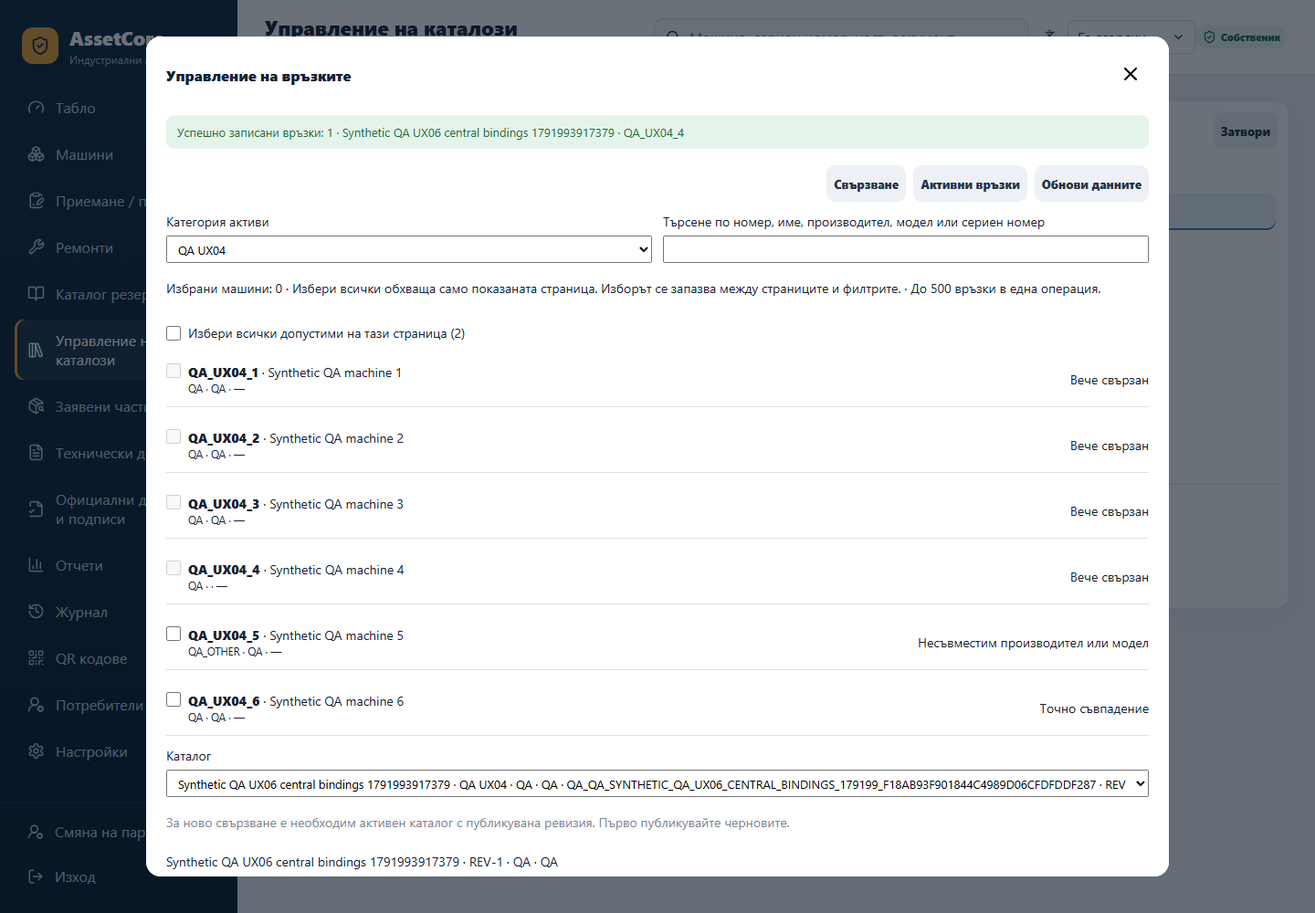
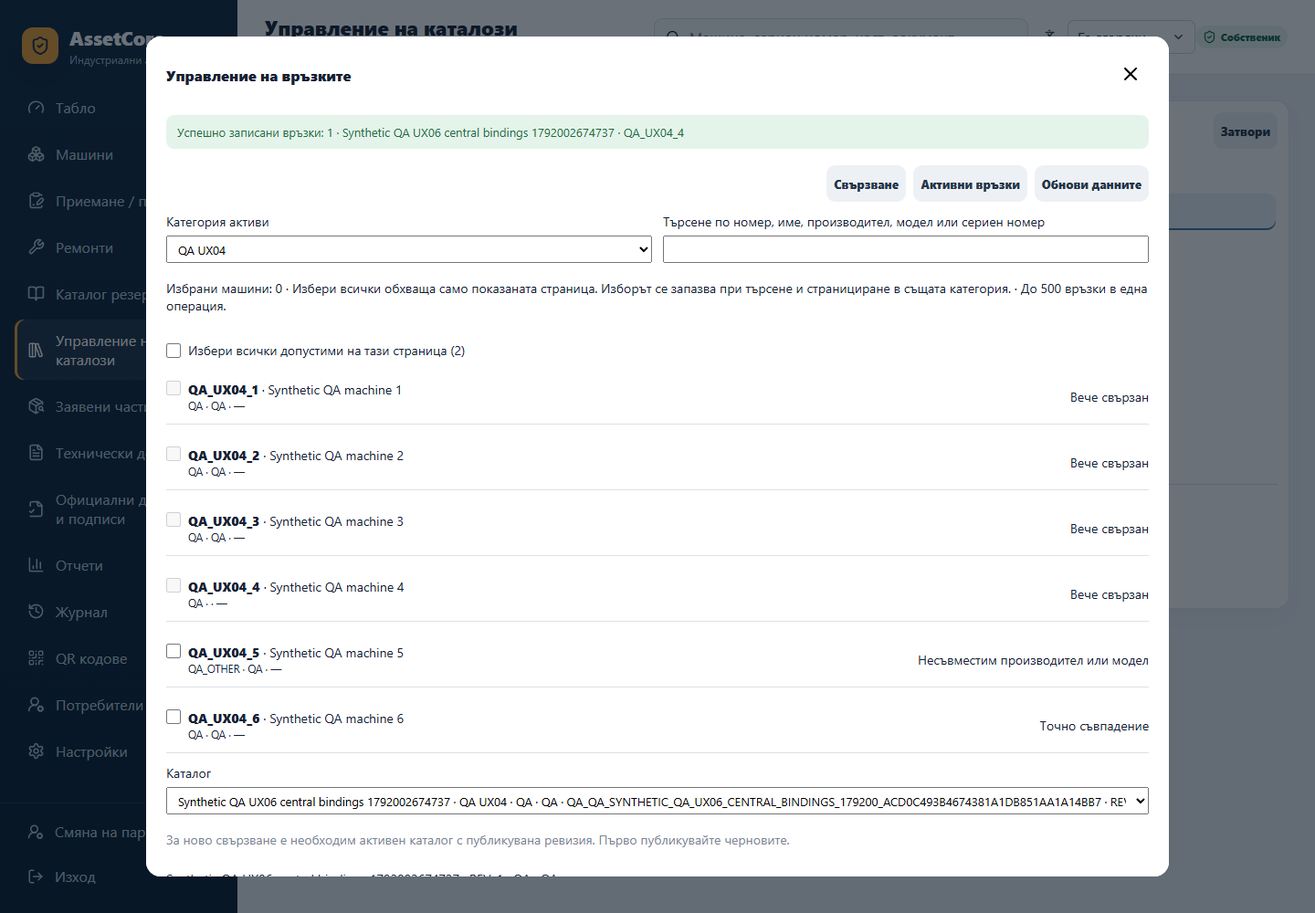
Guard catalog category changes against unfinished selections

diff --git a/frontend/src/features/catalogBuilder/CatalogBindings.test.tsx b/frontend/src/features/catalogBuilder/CatalogBindings.test.tsx
@@ -11,6 +11,9 @@ const category = { id: 1, code: 'QA', name_bg: 'QA category', name_en: 'QA categ
 const catalog = { id: 10, code: 'QA', name_bg: 'QA published', name_en: 'QA published', name_ru: 'QA published', asset_category_id: 1,
   asset_category: category, manufacturer: 'QA', model_reference: 'QA', is_active: true, published_revision: { id: 11, revision_code: 'REV-1' }, draft_revision_count: 1, active_asset_count: 0 }
 const draft = { ...catalog, id: 20, name_bg: 'QA draft', published_revision: null }
+const otherCategory = { ...category, id: 2, code: 'QA_OTHER', name_bg: 'QA other category' }
+const otherCatalog = { ...catalog, id: 40, code: 'QA_OTHER', name_bg: 'QA other published', asset_category_id: 2,
+  asset_category: otherCategory, published_revision: { id: 41, revision_code: 'REV-OTHER' } }
 const machine = (id: number, extra = {}) => ({ id, inventory_number: `QA-${id}`, name: `Synthetic QA ${id}`, brand: 'QA', model: 'QA', serial_number: `QA-S-${id}`, is_active: true, bound: false, compatibility: 'EXACT', ...extra })
 const binding = (id: number, machineId = 1) => ({ id, catalog_id: id === 1 ? 10 : 30, machine_id: machineId, category_id: 1, machine: machine(machineId), catalog: id === 1 ? catalog : { ...catalog, id: 30, code: 'QA_SECOND', name_bg: 'QA second' },
   status: 'ACTIVE', published_revision: catalog.published_revision, expected_digest: String(id).repeat(64).slice(0, 64) })
@@ -20,25 +23,34 @@ afterEach(() => { vi.unstubAllGlobals(); vi.restoreAllMocks() })
 function setup({ ambiguous = false, incompatible = false, failure = false } = {}) {
   setSessionUser({ id: 1, role: 'administrator', permissions: ['parts.manage'] } as UserSession)
   const writes: Array<{ path: string; body: Record<string, unknown> }> = []
+  const previews: Array<{ catalog_id: number; machine_ids: number[]; confirmed_machine_ids: number[] }> = []
+  const machineQueries: URLSearchParams[] = []
   const onChanged = vi.fn(async () => {}), onClose = vi.fn()
   vi.stubGlobal('fetch', vi.fn(async (input: RequestInfo | URL, init?: RequestInit) => {
     const path = String(input), body = init?.body ? JSON.parse(String(init.body)) : {}
     if (init?.method === 'POST') {
       if (path.endsWith('/preview')) {
+        previews.push(body)
         const machines = body.machine_ids.map((id: number) => machine(id, { compatibility: incompatible && id === 2 ? 'INCOMPATIBLE' : ambiguous ? 'AMBIGUOUS' : 'EXACT',
           code: incompatible && id === 2 ? 'catalog_asset_model_mismatch' : ambiguous && !body.confirmed_machine_ids.includes(id) ? 'catalog_asset_compatibility_confirmation_required' : null }))
-        return json({ machines, ready: machines.every((row: { code: string | null }) => !row.code), digest: 'a'.repeat(64), published_revision: catalog.published_revision })
+        return json({ machines, ready: machines.every((row: { code: string | null }) => !row.code), digest: 'a'.repeat(64), published_revision: body.catalog_id === 40 ? otherCatalog.published_revision : catalog.published_revision })
       }
       writes.push({ path, body })
       return failure ? json({ detail: { code: 'catalog_bindings_stale' } }, 409) : json({ count: body.bindings?.length || body.machine_ids?.length || 2, machines: [machine(1), machine(2)] })
     }
-    if (path.includes('/bindings/machines?')) return json({ items: path.includes('offset=50') ? [machine(51)] : [machine(1), machine(2), machine(3, { bound: true })], total: 51, offset: path.includes('offset=50') ? 50 : 0, limit: 50 })
+    if (path.includes('/bindings/machines?')) {
+      const query = new URL(path, 'http://localhost').searchParams
+      machineQueries.push(query)
+      if (query.get('category_id') === '2') return json({ items: [machine(101)], total: 1, offset: 0, limit: 50 })
+      if (query.get('search')) return json({ items: [machine(2)], total: 1, offset: 0, limit: 50 })
+      return json({ items: query.get('offset') === '50' ? [machine(51)] : [machine(1), machine(2), machine(3, { bound: true })], total: 51, offset: query.get('offset') === '50' ? 50 : 0, limit: 50 })
+    }
     if (path.includes('/bindings?')) return json({ items: [binding(1), binding(2)], total: 2, offset: 0, limit: 50 })
     if (path.includes('/workspace/machines?')) return json({ items: [], total: 0, has_next: false })
     return json([])
   }))
-  render(<I18nProvider><CatalogBindings catalogs={[catalog, draft]} categories={[category]} catalogId={10} onChanged={onChanged} onClose={onClose} /></I18nProvider>)
-  return { writes, onChanged, onClose, user: userEvent.setup() }
+  render(<I18nProvider><CatalogBindings catalogs={[catalog, draft, otherCatalog]} categories={[category, otherCategory]} catalogId={10} onChanged={onChanged} onClose={onClose} /></I18nProvider>)
+  return { writes, previews, machineQueries, onChanged, onClose, user: userEvent.setup() }
 }
 
 it('keeps BG/EN/RU keys and disables unpublished catalogs even beside a published catalog with a new draft', async () => {
@@ -66,6 +78,140 @@ it('preserves exact selections across pages, and select all is explicitly limite
   expect(onClose).not.toHaveBeenCalled()
   await user.click(screen.getByRole('button', { name: 'Отказ' }))
   expect(screen.getByText(/Избрани машини: 2/)).toBeInTheDocument()
+})
+
+it('keeps the category, selection, individual confirmations and preview when a category change is cancelled', async () => {
+  const { user, previews, machineQueries, writes } = setup({ ambiguous: true })
+  await user.click(await screen.findByLabelText('Избери всички допустими на тази страница (2)'))
+  await user.click(await screen.findByRole('button', { name: ux06Bg['ux06.preview'] }))
+  for (const id of [1, 2]) await user.click(await screen.findByLabelText(`Потвърждавам съвместимостта за QA-${id}`))
+  await waitFor(() => expect(screen.getByRole('button', { name: ux06Bg['ux06.confirmBind'] })).toBeEnabled())
+  await user.click(screen.getByRole('button', { name: 'Отказ' }))
+  const previewCount = previews.length
+  await user.selectOptions(screen.getByRole('combobox', { name: 'Категория активи' }), '2')
+  expect(screen.getByRole('heading', { name: ux06Bg['ux06.changeCategory'] })).toHaveFocus()
+  expect(screen.getByText(ux06Bg['ux06.categorySelectionWarning'])).toBeInTheDocument()
+  await user.click(screen.getByRole('button', { name: 'Отказ' }))
+  expect(screen.getByRole('combobox', { name: 'Категория активи' })).toHaveValue('1')
+  expect(screen.getByRole('combobox', { name: 'Категория активи' })).toHaveFocus()
+  expect(screen.getByRole('combobox', { name: 'Каталог' })).toHaveValue('10')
+  expect(screen.getByText(/Избрани машини: 2/)).toBeInTheDocument()
+  for (const id of [1, 2]) expect(screen.getByRole('button', { name: `Премахни QA-${id} от избора` })).toBeInTheDocument()
+  await user.click(screen.getByRole('button', { name: ux06Bg['ux06.preview'] }))
+  for (const id of [1, 2]) expect(screen.getByLabelText(`Потвърждавам съвместимостта за QA-${id}`)).toBeChecked()
+  expect(screen.getByRole('button', { name: ux06Bg['ux06.confirmBind'] })).toBeEnabled()
+  expect(previews).toHaveLength(previewCount)
+  expect(machineQueries.every(query => query.get('category_id') === '1')).toBe(true)
+  expect(writes).toHaveLength(0)
+})
+
+it('clears machines, confirmations and the old preview only after explicitly accepting a category change', async () => {
+  const { user, previews, writes } = setup({ ambiguous: true })
+  await user.click(await screen.findByLabelText('Избери всички допустими на тази страница (2)'))
+  await user.click(await screen.findByRole('button', { name: ux06Bg['ux06.preview'] }))
+  for (const id of [1, 2]) await user.click(await screen.findByLabelText(`Потвърждавам съвместимостта за QA-${id}`))
+  await waitFor(() => expect(screen.getByRole('button', { name: ux06Bg['ux06.confirmBind'] })).toBeEnabled())
+  await user.click(screen.getByRole('button', { name: 'Отказ' }))
+  await user.selectOptions(screen.getByRole('combobox', { name: 'Категория активи' }), '2')
+  expect(screen.getByText('Избрани машини: 2')).toBeInTheDocument()
+  await user.click(screen.getByRole('button', { name: ux06Bg['ux06.clearAndChangeCategory'] }))
+  expect(screen.getByRole('combobox', { name: 'Категория активи' })).toHaveValue('2')
+  expect(screen.getByRole('combobox', { name: 'Каталог' })).toHaveValue('')
+  expect(screen.getByText(/Избрани машини: 0/)).toBeInTheDocument()
+  expect(screen.queryByRole('button', { name: /Премахни QA-\d+ от избора/ })).not.toBeInTheDocument()
+  expect(screen.getByRole('button', { name: ux06Bg['ux06.preview'] })).toBeDisabled()
+  await user.click(await screen.findByLabelText('Избери всички допустими на тази страница (1)'))
+  await user.selectOptions(screen.getByRole('combobox', { name: 'Каталог' }), '40')
+  await waitFor(() => expect(screen.getByRole('button', { name: ux06Bg['ux06.preview'] })).toBeEnabled())
+  await user.click(screen.getByRole('button', { name: ux06Bg['ux06.preview'] }))
+  expect(screen.getByText(/REV-OTHER/)).toBeInTheDocument()
+  expect(screen.queryByText(/REV-1/)).not.toBeInTheDocument()
+  expect(screen.getByRole('button', { name: ux06Bg['ux06.confirmBind'] })).toBeDisabled()
+  expect(previews.at(-1)).toEqual({ catalog_id: 40, machine_ids: [101], confirmed_machine_ids: [] })
+  await user.click(screen.getByRole('button', { name: 'Отказ' }))
+  await user.selectOptions(screen.getByRole('combobox', { name: 'Категория активи' }), '1')
+  await user.click(screen.getByRole('button', { name: ux06Bg['ux06.clearAndChangeCategory'] }))
+  await user.click(await screen.findByLabelText('Избери всички допустими на тази страница (2)'))
+  await user.selectOptions(screen.getByRole('combobox', { name: 'Каталог' }), '10')
+  await waitFor(() => expect(screen.getByRole('button', { name: ux06Bg['ux06.preview'] })).toBeEnabled())
+  await user.click(screen.getByRole('button', { name: ux06Bg['ux06.preview'] }))
+  for (const id of [1, 2]) expect(screen.getByLabelText(`Потвърждавам съвместимостта за QA-${id}`)).not.toBeChecked()
+  expect(screen.getByRole('button', { name: ux06Bg['ux06.confirmBind'] })).toBeDisabled()
+  expect(previews.at(-1)).toEqual({ catalog_id: 10, machine_ids: [1, 2], confirmed_machine_ids: [] })
+  expect(writes).toHaveLength(0)
+})
+
+it('changes category immediately without a machine selection', async () => {
+  const { user, writes } = setup()
+  await user.selectOptions(screen.getByRole('combobox', { name: 'Категория активи' }), '2')
+  expect(screen.queryByRole('heading', { name: ux06Bg['ux06.changeCategory'] })).not.toBeInTheDocument()
+  expect(screen.getByRole('combobox', { name: 'Категория активи' })).toHaveValue('2')
+  expect(screen.getByRole('combobox', { name: 'Каталог' })).toHaveValue('')
+  expect(await screen.findByText('QA-101')).toBeInTheDocument()
+  expect(writes).toHaveLength(0)
+})
+
+it('requires confirmation when clearing the category and leaves an empty selection without a loading state', async () => {
+  const { user } = setup()
+  await user.click(await screen.findByLabelText('Избери всички допустими на тази страница (2)'))
+  await user.selectOptions(screen.getByRole('combobox', { name: 'Категория активи' }), '')
+  expect(screen.getByRole('heading', { name: ux06Bg['ux06.changeCategory'] })).toBeInTheDocument()
+  await user.click(screen.getByRole('button', { name: ux06Bg['ux06.clearAndChangeCategory'] }))
+  expect(screen.getByRole('combobox', { name: 'Категория активи' })).toHaveValue('')
+  expect(screen.getByRole('combobox', { name: 'Каталог' })).toBeDisabled()
+  expect(screen.getByText(/Избрани машини: 0/)).toBeInTheDocument()
+  expect(screen.getByRole('button', { name: ux06Bg['ux06.preview'] })).toBeDisabled()
+  expect(screen.queryByRole('checkbox')).not.toBeInTheDocument()
+  expect(screen.getByRole('dialog').querySelector('[aria-busy]')).toHaveAttribute('aria-busy', 'false')
+})
+
+it('also guards a connection selection hidden by the active view when its shared category changes', async () => {
+  const { user } = setup()
+  await user.click(await screen.findByLabelText('Избери всички допустими на тази страница (2)'))
+  await user.click(screen.getByRole('button', { name: ux06Bg['ux06.active'] }))
+  await user.selectOptions(screen.getByRole('combobox', { name: 'Категория активи' }), '2')
+  expect(screen.getByRole('heading', { name: ux06Bg['ux06.changeCategory'] })).toBeInTheDocument()
+  await user.click(screen.getByRole('button', { name: ux06Bg['ux06.clearAndChangeCategory'] }))
+  await user.click(screen.getByRole('button', { name: ux06Bg['ux06.connect'] }))
+  expect(screen.getByRole('combobox', { name: 'Категория активи' })).toHaveValue('2')
+  expect(screen.getByText(/Избрани машини: 0/)).toBeInTheDocument()
+  expect(screen.getByRole('button', { name: ux06Bg['ux06.preview'] })).toBeDisabled()
+})
+
+it('preserves selected binding pairs when changing active-view category filters without a connection selection', async () => {
+  const { user } = setup()
+  await user.click(screen.getByRole('button', { name: ux06Bg['ux06.active'] }))
+  await user.selectOptions(screen.getByRole('combobox', { name: 'Каталог' }), '')
+  await user.click(await screen.findByLabelText('Избери всички допустими на тази страница (2)'))
+  await user.selectOptions(screen.getByRole('combobox', { name: 'Категория активи' }), '')
+  expect(screen.queryByRole('heading', { name: ux06Bg['ux06.changeCategory'] })).not.toBeInTheDocument()
+  expect(screen.getByText(/Избрани връзки: 2/)).toBeInTheDocument()
+  await user.click(screen.getByRole('button', { name: ux06Bg['ux06.removeSelected'] }))
+  expect(screen.getByText('Избрани връзки: 2')).toBeInTheDocument()
+  expect(screen.getByText(/QA published/)).toBeInTheDocument()
+  expect(screen.getByText(/QA second/)).toBeInTheDocument()
+})
+
+it('preserves selections through search, clearing search and pagination within the same category', async () => {
+  const { user, previews } = setup()
+  await user.click(await screen.findByLabelText('Избери всички допустими на тази страница (2)'))
+  await user.click(screen.getByRole('button', { name: ux06Bg['ux06.next'] }))
+  await user.click(await screen.findByLabelText('Избери всички допустими на тази страница (1)'))
+  await user.type(screen.getByRole('searchbox', { name: ux06Bg['ux06.search'] }), 'QA-2')
+  await screen.findByText('QA-2', { selector: 'b' })
+  expect(screen.getByRole('checkbox', { name: /QA-2.*Synthetic QA 2/ })).toBeChecked()
+  expect(screen.getByText(/Избрани машини: 3/)).toBeInTheDocument()
+  for (const id of [1, 2, 51]) expect(screen.getByRole('button', { name: `Премахни QA-${id} от избора` })).toBeInTheDocument()
+  expect(screen.getByRole('combobox', { name: 'Категория активи' })).toHaveValue('1')
+  expect(screen.queryByRole('heading', { name: ux06Bg['ux06.changeCategory'] })).not.toBeInTheDocument()
+  await user.clear(screen.getByRole('searchbox', { name: ux06Bg['ux06.search'] }))
+  await screen.findByText('QA-1', { selector: 'b' })
+  await user.click(screen.getByRole('button', { name: ux06Bg['ux06.next'] }))
+  expect(await screen.findByRole('checkbox', { name: /QA-51.*Synthetic QA 51/ })).toBeChecked()
+  expect(screen.getByText(/Избрани машини: 3/)).toBeInTheDocument()
+  await user.click(screen.getByRole('button', { name: ux06Bg['ux06.preview'] }))
+  expect(previews.at(-1)).toEqual({ catalog_id: 10, machine_ids: [1, 2, 51], confirmed_machine_ids: [] })
+  expect(screen.getByRole('button', { name: ux06Bg['ux06.confirmBind'] })).toBeEnabled()
 })
 
 it('requires each ambiguous confirmation and sends a single atomic request with all IDs and preview digest', async () => {

diff --git a/frontend/src/features/catalogBuilder/CatalogBindings.tsx b/frontend/src/features/catalogBuilder/CatalogBindings.tsx
@@ -37,6 +37,7 @@ export default function CatalogBindings({ catalogs, categories, catalogId, onClo
   const [plan, setPlan] = useState<Plan | null>(null)
   const [stage, setStage] = useState<'select' | 'review' | 'remove'>('select')
   const [closeWarning, setCloseWarning] = useState(false)
+  const [pendingCategory, setPendingCategory] = useState<number | null>(null)
   const [loading, setLoading] = useState(false)
   const [previewLoading, setPreviewLoading] = useState(false)
   const [busy, setBusy] = useState(false)
@@ -46,6 +47,8 @@ export default function CatalogBindings({ catalogs, categories, catalogId, onClo
   const [issues, setIssues] = useState<Machine[]>([])
   const [success, setSuccess] = useState('')
   const heading = useRef<HTMLHeadingElement>(null)
+  const categoryControl = useRef<HTMLSelectElement>(null)
+  const categoryWarningOpened = useRef(false)
   const chosen = catalogs.find(row => row.id === catalog)
   const name = (row: Names) => row[`name_${locale}`] || row.name_bg
   const reason = (code?: string | null) => code ? t(problemKeys[code] || 'builder.error.generic') : ''
@@ -55,13 +58,17 @@ export default function CatalogBindings({ catalogs, categories, catalogId, onClo
   const dirty = rows.length > 0 || removals.length > 0 || !!removalPreview?.length
   useEffect(() => { heading.current?.focus() }, [stage, closeWarning])
   useEffect(() => {
+    if (pendingCategory !== null) { heading.current?.focus(); categoryWarningOpened.current = true }
+    else if (categoryWarningOpened.current) { categoryControl.current?.focus(); categoryWarningOpened.current = false }
+  }, [pendingCategory])
+  useEffect(() => {
     const before = (event: BeforeUnloadEvent) => { if (dirty || busy) event.preventDefault() }
     window.addEventListener('beforeunload', before)
     return () => window.removeEventListener('beforeunload', before)
   }, [dirty, busy])
   useEffect(() => {
     let active = true
-    if (mode === 'connect' && !category) { setMachines(empty()); return }
+    if (mode === 'connect' && !category) { setMachines(empty()); setLoading(false); return }
     setLoading(true); setError(''); setMachines(empty()); setLinks(empty())
     const query = new URLSearchParams({ offset: String(offset), limit: '50', search })
     if (category) query.set('category_id', String(category))
@@ -86,6 +93,18 @@ export default function CatalogBindings({ catalogs, categories, catalogId, onClo
     return () => { active = false }
   }, [catalog, selected, confirmed, mode, refresh, t])
   function close() { if (busyRef.current) return; if (dirty) setCloseWarning(true); else onClose() }
+  function applyCategory(next: number) {
+    setCategory(next); setCatalog(0); setMachineFilter(0); setOffset(0)
+    setSelected({}); setConfirmed([]); setPlan(null); setPreviewLoading(false)
+    setPendingCategory(null)
+  }
+  function changeCategory(next: number) {
+    if (busyRef.current || next === category) return
+    // Category is shared by both views; never retain a hidden connection
+    // selection from a different category when changing the active filters.
+    if (rows.length) setPendingCategory(next)
+    else applyCategory(next)
+  }
   function resetSelection() {
     if (mode === 'connect') { setSelected({}); setConfirmed([]); setPlan(null) }
     else setRemoving({})
@@ -145,7 +164,12 @@ export default function CatalogBindings({ catalogs, categories, catalogId, onClo
       {success && <p role="status" className="success">{success}</p>}
       {closeWarning ? <section><h4 ref={heading} tabIndex={-1}>{t('ux06.discard')}</h4><div className="actions">
         <button className="secondary" onClick={() => setCloseWarning(false)}>{t('common.cancel')}</button>
-        <button className="danger" onClick={onClose}>{t('common.close')}</button></div></section> : stage !== 'select' ? <section>
+        <button className="danger" onClick={onClose}>{t('common.close')}</button></div></section> : pendingCategory !== null ? <section>
+        <h4 ref={heading} tabIndex={-1}>{t('ux06.changeCategory')}</h4>
+        <p>{t('ux06.categorySelectionWarning')}</p><p>{t('ux06.selected', { count: rows.length })}</p>
+        <div className="actions"><button className="secondary" onClick={() => setPendingCategory(null)}>{t('common.cancel')}</button>
+          <button className="danger" onClick={() => applyCategory(pendingCategory)}>{t('ux06.clearAndChangeCategory')}</button></div>
+      </section> : stage !== 'select' ? <section>
         <h4 ref={heading} tabIndex={-1}>{t(stage === 'review' ? 'ux06.preview' : 'ux06.removePreview')}</h4>
         {stage === 'review' ? <><p><b>{chosen && name(chosen)}</b> · {chosen && name(chosen.asset_category)} · {plan?.published_revision?.revision_code}</p>
           <p>{t('ux06.selected', { count: rows.length })} · {(['EXACT', 'AMBIGUOUS', 'INCOMPATIBLE'] as const).map(code => `${t(`ux06.${code}`)}: ${plan?.machines.filter(row => row.compatibility === code).length || 0}`).join(' · ')} · {t('ux06.already')}: {plan?.machines.filter(row => row.code === 'catalog_asset_already_bound').length || 0}</p>
@@ -161,7 +185,7 @@ export default function CatalogBindings({ catalogs, categories, catalogId, onClo
         <nav className="actions" aria-label={t('ux06.title')}>{(['connect', 'active'] as const).map(value => <button className="secondary" disabled={busy} aria-pressed={mode === value} key={value} onClick={() => { setMode(value); setOffset(0); setSearch(''); setMachineFilter(0); setStage('select') }}>{t(`ux06.${value}`)}</button>)}
           <button className="secondary" disabled={busy} onClick={() => void reload()}>{t('ux06.refresh')}</button></nav>
         <div className="binding-filters">
-          <label>{t('builder.category')}<select aria-label={t('builder.category')} value={category} onChange={event => { setCategory(Number(event.target.value)); setCatalog(0); setMachineFilter(0); setOffset(0) }}><option value="">{t(mode === 'active' ? 'ux06.allCategories' : 'guided.select')}</option>{categories.filter(row => row.capabilities.includes('HAS_PARTS_CATALOG') && (mode === 'active' || row.is_active)).map(row => <option key={row.id} value={row.id}>{name(row)}</option>)}</select></label>
+          <label>{t('builder.category')}<select ref={categoryControl} aria-label={t('builder.category')} value={category} onChange={event => changeCategory(Number(event.target.value))}><option value="">{t(mode === 'active' ? 'ux06.allCategories' : 'guided.select')}</option>{categories.filter(row => row.capabilities.includes('HAS_PARTS_CATALOG') && (mode === 'active' || row.is_active)).map(row => <option key={row.id} value={row.id}>{name(row)}</option>)}</select></label>
           <label>{t('ux06.search')}<input type="search" maxLength={120} value={search} onChange={event => { setSearch(event.target.value); setOffset(0) }} /></label>
         </div>
         {mode === 'connect' ? <>

diff --git a/frontend/src/features/catalogBuilder/ux06Translations.ts b/frontend/src/features/catalogBuilder/ux06Translations.ts
@@ -4,7 +4,10 @@ export const ux06Bg = {
   'ux06.title': 'Управление на връзките', 'ux06.link': 'Свържи каталог', 'ux06.connect': 'Свързване', 'ux06.active': 'Активни връзки',
   'ux06.search': 'Търсене по номер, име, производител, модел или сериен номер', 'ux06.catalog': 'Каталог',
   'ux06.selected': 'Избрани машини: {{count}}', 'ux06.selectedLinks': 'Избрани връзки: {{count}}',
-  'ux06.pageHelp': 'Избери всички обхваща само показаната страница. Изборът се запазва между страниците и филтрите.',
+  'ux06.pageHelp': 'Избери всички обхваща само показаната страница. Изборът се запазва при търсене и странициране в същата категория.',
+  'ux06.changeCategory': 'Да се смени ли категорията?',
+  'ux06.categorySelectionWarning': 'Смяната на категорията ще изчисти избраните машини, индивидуалните потвърждения за съвместимост и текущия преглед.',
+  'ux06.clearAndChangeCategory': 'Изчисти избора и смени категорията',
   'ux06.selectPage': 'Избери всички допустими на тази страница ({{count}})', 'ux06.already': 'Вече свързан',
   'ux06.inactiveMachine': 'Неактивна машина', 'ux06.chooseCatalog': 'Изберете каталог за проверка на съвместимостта',
   'ux06.publishFirst': 'За ново свързване е необходим активен каталог с публикувана ревизия. Първо публикувайте черновите.',
@@ -30,7 +33,10 @@ export const ux06En: Record<keyof typeof ux06Bg, string> = {
   'ux06.title': 'Binding management', 'ux06.link': 'Link catalog', 'ux06.connect': 'Connect', 'ux06.active': 'Active bindings',
   'ux06.search': 'Search by inventory, name, manufacturer, model or serial number', 'ux06.catalog': 'Catalog',
   'ux06.selected': 'Selected machines: {{count}}', 'ux06.selectedLinks': 'Selected bindings: {{count}}',
-  'ux06.pageHelp': 'Select all covers the displayed page only. Selection persists across pages and filters.',
+  'ux06.pageHelp': 'Select all covers the displayed page only. Selection persists across search and pages within the same category.',
+  'ux06.changeCategory': 'Change category?',
+  'ux06.categorySelectionWarning': 'Changing category will clear the selected machines, individual compatibility confirmations and current preview.',
+  'ux06.clearAndChangeCategory': 'Clear selection and change category',
   'ux06.selectPage': 'Select all eligible on this page ({{count}})', 'ux06.already': 'Already linked',
   'ux06.inactiveMachine': 'Inactive machine', 'ux06.chooseCatalog': 'Choose a catalog to check compatibility',
   'ux06.publishFirst': 'New bindings require an active catalog with a published revision. Publish drafts first.',
@@ -56,7 +62,10 @@ export const ux06Ru: Record<keyof typeof ux06Bg, string> = {
   'ux06.title': 'Управление связями', 'ux06.link': 'Связать каталог', 'ux06.connect': 'Связывание', 'ux06.active': 'Активные связи',
   'ux06.search': 'Поиск по номеру, имени, производителю, модели или серийному номеру', 'ux06.catalog': 'Каталог',
   'ux06.selected': 'Выбрано машин: {{count}}', 'ux06.selectedLinks': 'Выбрано связей: {{count}}',
-  'ux06.pageHelp': 'Выбрать все охватывает только текущую страницу. Выбор сохраняется между страницами и фильтрами.',
+  'ux06.pageHelp': 'Выбрать все охватывает только текущую страницу. Выбор сохраняется при поиске и переходе между страницами в той же категории.',
+  'ux06.changeCategory': 'Изменить категорию?',
+  'ux06.categorySelectionWarning': 'Смена категории очистит выбранные машины, индивидуальные подтверждения совместимости и текущий просмотр.',
+  'ux06.clearAndChangeCategory': 'Очистить выбор и изменить категорию',
   'ux06.selectPage': 'Выбрать все допустимые на этой странице ({{count}})', 'ux06.already': 'Уже связан',
   'ux06.inactiveMachine': 'Неактивная машина', 'ux06.chooseCatalog': 'Выберите каталог для проверки совместимости',
   'ux06.publishFirst': 'Для новых связей нужен активный каталог с опубликованной ревизией. Сначала опубликуйте черновики.',

diff --git a/docs/CATALOG_UX_06_BG.md b/docs/CATALOG_UX_06_BG.md
@@ -169,8 +169,8 @@ runtime договор. Нови pending връзки са забранени п
 | PostgreSQL full локално | `python -m pytest -q tests/postgres --tb=short` | 137 passed, 1 failed; виж ограничението по-долу |
 | Самостоятелен повторен transfer concurrency тест | `python -m pytest -q tests/postgres/test_concurrency.py::test_two_issue_transactions_create_one_active_transfer --tb=short` | 1 passed, 8.75 s; без промяна на теста/timeouts |
 | Финална foreign-catalog / authorization регресия | `python -m pytest -q tests/test_catalog_final_audit.py tests/test_catalog_bindings.py tests/test_authorization_web_security.py --tb=short` | 46 passed; 0 failed; 0 skipped |
-| Frontend suite | `pnpm test` | 629 passed, 68 файла |
-| Достъпни имена на selectors | `pnpm exec vitest run src/features/catalogBuilder/CatalogBindings.test.tsx --pool=threads --maxWorkers=1` | 6 passed; default timeout не е променян |
+| Frontend suite след review корекцията | `pnpm exec vitest run --pool=threads --maxWorkers=1` | 636 passed, 68 файла, 227.71 s |
+| Bindings component в пълния frontend suite | същата команда | 13 passed, включително 7 нови регресии; default timeout не е променян |
 | TypeScript / ESLint | `pnpm typecheck`; `pnpm lint` | PASS |
 | Frontend build | `pnpm build` | PASS; запазено Vite предупреждение за bundle над 500 kB |
 | Python syntax | `python -m compileall -q backend/app backend/alembic backend/scripts scripts tests` | PASS |
@@ -211,7 +211,7 @@ Browser runner: `python tests/browser/run_catalog_ux06_qa.py` с наличен 
 CI изпълнява UX04, UX05 и UX06 browser scenarios, както и пълните backend,
 PostgreSQL, frontend, security, migration и Docker jobs.
 
-Локалният UX06 browser scenario е PASS: 7 групи acceptance проверки и 8 screenshots
+Локалният UX06 browser scenario е PASS: 8 групи acceptance проверки и 10 screenshots
 при 390, 768 и 1440 px. След първоначално създадената disposable база повторните
 локални сценарии използват същата изолирана QA база, като деактивират само собствените
 публикувани QA връзки чрез общия service и запазват историята/pending записа.
@@ -227,6 +227,46 @@ CI runner винаги създава нова база. Проверени са
 [incompatible preview](qa/catalog-ux-06/incompatible-preview-1440.png).
 Снимките са визуално прегледани; няма хоризонтално преливане. Мобилният диалог
 използва вертикално превъртане, като действията остават достъпни.
+
+## Корекция след независим review: смяна на категория
+
+В `CatalogBindings` новата категория се държи като чакащ избор, докато операторът
+изрично потвърди изчистването. Потвърждението е в същия централен прозорец, с focus
+върху заглавието и връщане към category selector след отговор. „Отказ“ запазва
+категорията, избраните машини, индивидуалните compatibility потвърждения и preview.
+При приемане се изчистват машините, потвържденията, preview и избраният каталог;
+данните се зареждат за новата категория. Закъснели preview отговори остават
+защитени от съществуващия effect cleanup.
+
+Търсенето и страницирането в същата категория запазват избора. Понеже category
+state е общ за двата изгледа, защитата важи и за временно скрита селекция за
+свързване при работа в „Активни връзки“. Избраните конкретни bindings за премахване
+продължават да се запазват при филтриране. Предупреждението и поясненията са
+преведени с еднакви ключове на BG/EN/RU. Няма промени по backend, schema, audit,
+transaction/locking договорите или verified business material в тази корекция.
+
+Добавените frontend регресии проверяват отказа, приемането, повторното избиране на
+AMBIGUOUS машини без наследени потвърждения, нов preview за друга категория,
+изчистване на категорията, смяна без селекция, търсене/странициране и общата
+категория между изгледите. Browser сценарият допълнително проверява отказ и
+приемане с реална AMBIGUOUS машина, focus и responsive confirmation screenshots.
+
+Локални проверки на корекцията:
+
+- `python -m pytest -q tests/test_catalog_bindings.py`: 26 passed, 9 deprecation
+  warnings, 109.98 s. Използван е project virtualenv и изолирани SQLite fixtures.
+- `pnpm exec vitest run --pool=threads --maxWorkers=1`: 636 passed в 68 файла,
+  227.71 s; 13 binding component теста. Първият default-worker run получи
+  634 passed / 1 failed: непромененият SourceWorkspace navigation тест достигна
+  своя 5000 ms timeout. Пълното повторение мина без промени по теста или timeout-а.
+- `pnpm typecheck`, `pnpm lint`, `pnpm build`: PASS; съществуващото Vite bundle
+  предупреждение остава видимо.
+- `node tests/browser/catalog_ux06.mjs` през локалния disposable QA runner:
+  8 acceptance групи / 10 screenshots, PASS. Новите снимки са
+  [desktop confirmation](qa/catalog-ux-06/category-change-confirmation-1440.png) и
+  [mobile confirmation](qa/catalog-ux-06/category-change-confirmation-390.png).
+  Те са визуално прегледани; текстът и двата бутона са достъпни без преливане.
+  Всички снимки и SHA-256 стойности в QA manifest са обновени от същия run.
 
 ## Рискове и известни ограничения
 
